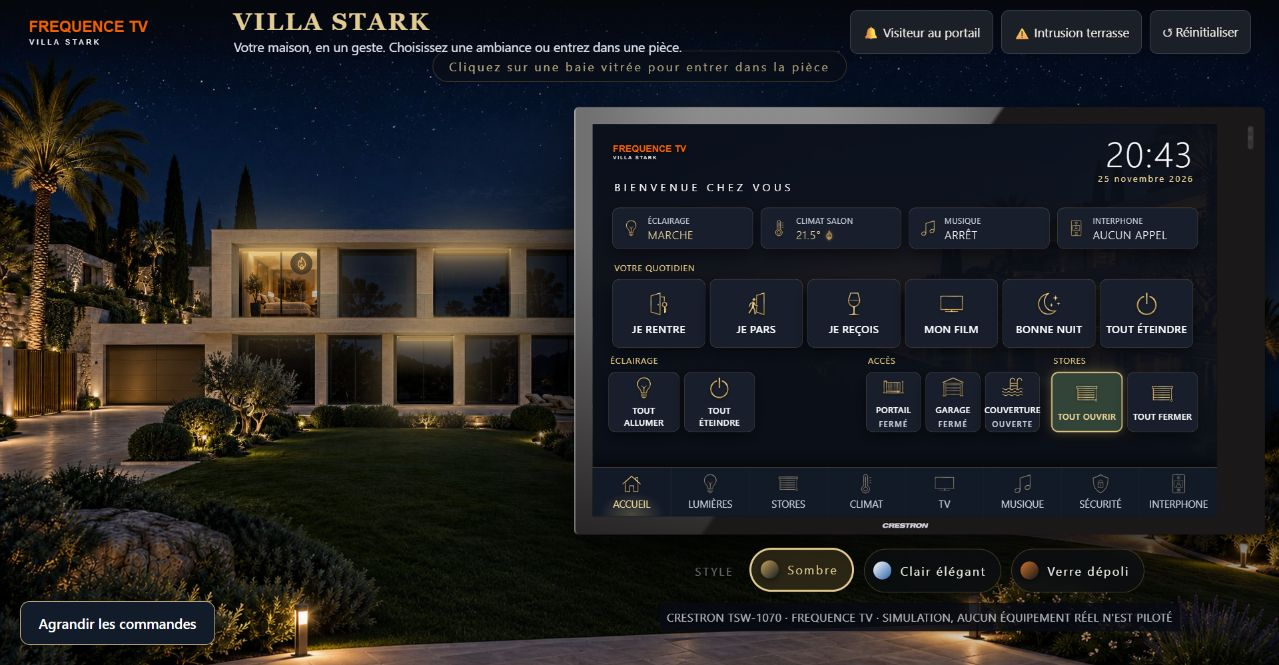
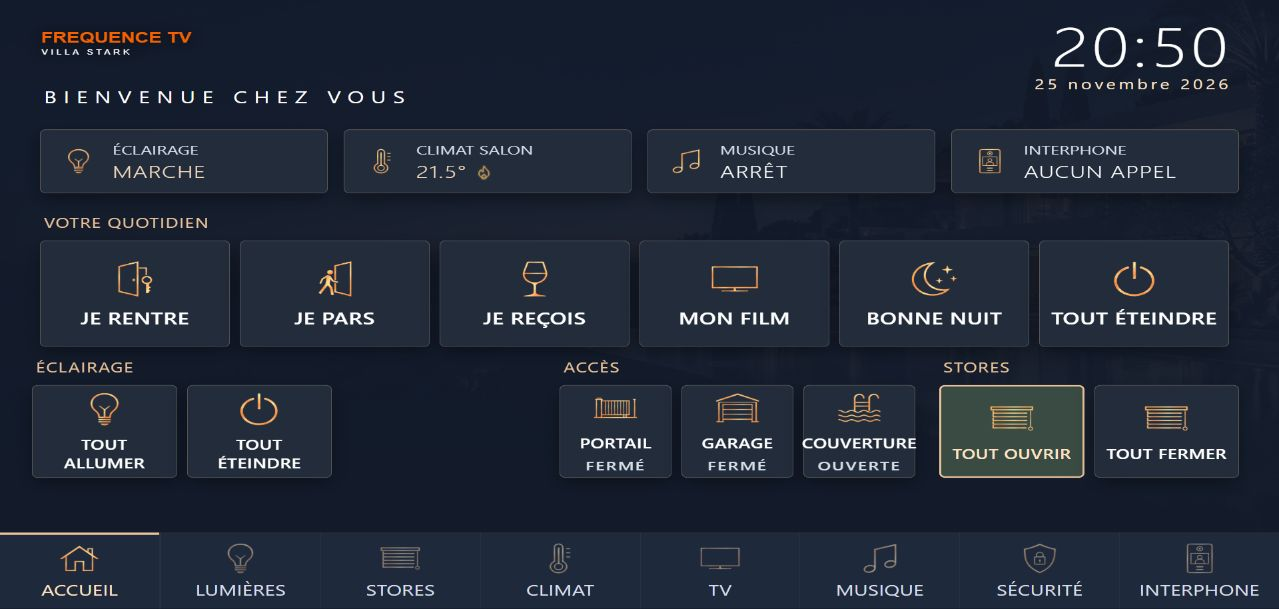
Separate Villa Stark animated backdrop from standard device GUI

diff --git a/apps/showcase/public/showcases/villa-stark/app.js b/apps/showcase/public/showcases/villa-stark/app.js
@@ -5,6 +5,18 @@
    ============================================================ */
 (() => {
 "use strict";
+const integrationMode = new URLSearchParams(location.search).get("mode") || "standalone";
+const backgroundOnly = integrationMode === "background";
+const syncId = new URLSearchParams(location.search).get("channel");
+const stateKey = syncId ? "villa-stark-state:" + syncId : null;
+const syncBus = syncId ? new BroadcastChannel("villa-stark:" + syncId) : null;
+function publishState() {
+  if (backgroundOnly || !syncBus) return;
+  const snapshot = { state: S, room: roomView };
+  try { sessionStorage.setItem(stateKey, JSON.stringify(snapshot)); } catch { /* Live sync remains available when storage is disabled. */ }
+  syncBus.postMessage({ type: "state", snapshot });
+}
+
 
 /* ---------------- définition de la villa ---------------- */
 const ROOMS = [
@@ -202,11 +214,13 @@ function renderHouse() {
   H.visitor.classList.toggle("ringing", ic.state === "ringing");
   ROOMS.forEach(r => { const t = H.thumbs[r.id]; t.classList.toggle("lit", anyLight(r.id)); t.classList.toggle("active", roomView === r.id); });
   renderRoomView();
+  publishState();
 }
 
 /* ---------------- vue intérieure d'une pièce ---------------- */
 let roomView = null;
 function enterRoom(id) {
+  if (backgroundOnly && !applyingSnapshot) { syncBus?.postMessage({ type: "command", action: "room", value: id }); return; }
   roomView = id;
   const r = roomById[id], v = $("#roomView");
   v.querySelector(".rv-photo").style.backgroundImage = `url(assets/photos/room_${id}.jpg)`;
@@ -221,7 +235,7 @@ function enterRoom(id) {
   $("#houseStage").classList.add("zoomed"); v.classList.add("open");
   go(id === "Pool" ? "light:Pool" : "light:" + id);
 }
-function leaveRoom() { roomView = null; $("#roomView").classList.remove("open"); $("#houseStage").classList.remove("zoomed"); go("lights"); }
+function leaveRoom() { if (backgroundOnly && !applyingSnapshot) { syncBus?.postMessage({ type: "command", action: "exterior" }); return; } roomView = null; $("#roomView").classList.remove("open"); $("#houseStage").classList.remove("zoomed"); go("lights"); }
 function renderRoomView() {
   if (!roomView) return;
   const id = roomView, r = roomById[id], v = $("#roomView"), l = S.lights[id], c3 = circuits(id), on = anyLight(id);
@@ -335,7 +349,7 @@ function renderHome(pg) {
   });
   const allUp = SHADE_ROOMS.every(id => !S.shades[id].pos), allDown = SHADE_ROOMS.every(id => S.shades[id].pos === 100);
   [["shades", "TOUT OUVRIR", 0, allUp], ["shades", "TOUT FERMER", 100, allDown]].forEach(([ico, l, pos, sel]) => {
-    const b = document.createElement("button"); b.className = "scene-btn" + (sel ? " sel" : ""); b.innerHTML = `<img src="assets/Icon_${ico}.png" alt="">${l}`; b.onclick = () => { SHADE_ROOMS.forEach(id => (S.shades[id].pos = pos)); render(); }; $("#shadeRow").appendChild(b);
+    const b = document.createElement("button"); b.className = "scene-btn" + (sel ? " sel" : ""); b.innerHTML = `<img src="assets/Icon_${ico}.png" alt="">${l}`; b.onclick = () => { stopAllShadeMotion(); SHADE_ROOMS.forEach(id => (S.shades[id].pos = pos)); render(); }; $("#shadeRow").appendChild(b);
   });
   tickClock();
 }
@@ -387,16 +401,21 @@ function renderRoomLights(pg, id) {
 
 /* ---------------- stores ---------------- */
 let shadeTimers = {};
+function stopAllShadeMotion() {
+  Object.values(shadeTimers).forEach(clearInterval);
+  SHADE_ROOMS.forEach(id => delete S.shades[id].target);
+}
 function moveShade(id, dir) {
   clearInterval(shadeTimers[id]);
   document.querySelectorAll('.win-shade,.rv-shade,.shade-vis .blind').forEach(el => el.style.transition = 'none');
-  if (dir === "stop") { refreshShadeVis(); return; }
+  if (dir === "stop") { delete S.shades[id].target; renderHouse(); refreshShadeVis(); return; }
   const target = dir === "down" ? 100 : 0, from = S.shades[id].pos, started = performance.now();
+  S.shades[id].target = target;
   shadeTimers[id] = setInterval(() => {
     const progress = Math.min(1, (performance.now() - started) / 2400);
     S.shades[id].pos = Math.round(from + (target - from) * progress);
     renderHouse(); refreshShadeVis();
-    if (progress === 1) clearInterval(shadeTimers[id]);
+    if (progress === 1) { clearInterval(shadeTimers[id]); delete S.shades[id].target; }
   }, 40);
 }
 function refreshShadeVis() { document.querySelectorAll(".shade-card").forEach(c => { const id = c.dataset.id, pos = S.shades[id].pos; c.querySelector(".blind").style.transform = `scaleY(${pos / 100})`; c.querySelector(".pos").textContent = pos === 0 ? "OUVERT" : pos === 100 ? "FERMÉ" : pos + " %"; }); }
@@ -544,7 +563,7 @@ const sceneHelp = {
 };
 function announce(text) { const el = $("#feedback"); el.textContent = text; clearTimeout(announce.timer); el.classList.add("visible"); announce.timer = setTimeout(() => el.classList.remove("visible"), 5500); }
 function runScene(k) {
-  Object.values(shadeTimers).forEach(clearInterval);
+  stopAllShadeMotion();
   document.querySelectorAll(".win-shade,.rv-shade,.shade-vis .blind").forEach(el => el.style.transition = "");
   announce(sceneHelp[k] || "Ambiance appliquée");
   if (k === "cinema") { allOff(); setLight("Cinema", "3000", "off", 12); SHADE_ROOMS.forEach(id => (S.shades[id].pos = 100)); S.tv.apple.power = true; S.tv.apple.app = "Apple TV"; ROOMS.forEach(r => (S.music[r.id].src = null)); }
@@ -574,8 +593,8 @@ function tickClock() {
   $("#hdrClock").textContent = hm;
   const t = $("#homeTime"); if (t) { t.textContent = hm; $("#homeDate").textContent = d.toLocaleDateString("fr-CH", { day: "numeric", month: "long", year: "numeric" }); }
 }
-setInterval(tickClock, 1000);
-setInterval(() => {
+if (!backgroundOnly) setInterval(tickClock, 1000);
+if (!backgroundOnly) setInterval(() => {
   let changed = false;
   ROOMS.forEach(r => { const c = S.climate[r.id]; const target = c.heat ? c.heatSP : c.ac ? c.acSP : 20; const step = c.ac ? 0.1 * c.acSpeed : 0.1;
     if (Math.abs(c.temp - target) > 0.05) { c.temp = Math.round((c.temp + Math.sign(target - c.temp) * Math.min(step, Math.abs(target - c.temp))) * 10) / 10; changed = true; } });
@@ -586,6 +605,36 @@ setInterval(() => {
 function scale() { const sc = $(".tsw-screen"); $("#tsw").style.transform = `scale(${sc.clientWidth / 1280}, ${sc.clientHeight / 800})`; }
 window.addEventListener("resize", scale);
 
+/* ---------------- shared state between GUI and animated backdrop ---------------- */
+let applyingSnapshot = false;
+function applySnapshot(snapshot) {
+  if (!snapshot?.state?.lights?.Living || !snapshot.state.shades?.Living) return;
+  applyingSnapshot = true;
+  Object.assign(S, snapshot.state);
+  if (snapshot.room && roomById[snapshot.room] && snapshot.room !== roomView) enterRoom(snapshot.room);
+  else if (!snapshot.room && roomView) leaveRoom();
+  if (backgroundOnly) {
+    document.querySelectorAll(".win").forEach(win => { win.querySelector(".win-shade").style.transition = S.shades[win.dataset.room]?.target != null ? "none" : ""; });
+    renderHouse();
+  } else render();
+  applyingSnapshot = false;
+}
+if (syncBus) {
+  syncBus.onmessage = ({ data }) => {
+    if (backgroundOnly) { if (data?.type === "state") applySnapshot(data.snapshot); return; }
+    if (data?.type === "request-state") { publishState(); return; }
+    if (data?.type !== "command") return;
+    if (data.action === "visitor") visitorRings();
+    else if (data.action === "intrusion") intrusion();
+    else if (data.action === "reset") { if (roomView) leaveRoom(); resetAll(); }
+    else if (data.action === "exterior") leaveRoom();
+    else if (data.action === "room" && roomById[data.value]) enterRoom(data.value);
+    else if (data.action === "shade" && roomView && S.shades[roomView]) { S.shades[roomView].pos = S.shades[roomView].pos ? 0 : 100; render(); }
+    else if (data.action === "theme" && THEMES.some(([key]) => key === data.value)) { S.theme = data.value; try { localStorage.setItem("villa-stark-theme", data.value); } catch {} render(); }
+  };
+}
+window.addEventListener("pagehide", () => { syncBus?.close(); Object.values(shadeTimers).forEach(clearInterval); });
+
 /* ---------------- démarrage ---------------- */
 buildHouse();
 $("#zoomControls").onclick = () => { const on = document.body.classList.toggle("panel-focus"); $("#zoomControls").textContent = on ? "Voir la villa et les commandes" : "Agrandir les commandes"; $("#zoomControls").setAttribute("aria-pressed", String(on)); requestAnimationFrame(scale); };
@@ -595,8 +644,11 @@ $("#evVisitor").onclick = visitorRings;
 $("#evIntrusion").onclick = intrusion;
 $("#evReset").onclick = () => { if (roomView) leaveRoom(); resetAll(); };
 $("#rvBack").onclick = leaveRoom;
-$("#roomView").addEventListener("click", e => { if (e.target.closest(".rv-shade") && roomById[roomView].shade) { S.shades[roomView].pos = S.shades[roomView].pos ? 0 : 100; render(); } });
+$("#roomView").addEventListener("click", e => { if (backgroundOnly && e.target.closest(".rv-shade")) { syncBus?.postMessage({ type: "command", action: "shade" }); return; } if (e.target.closest(".rv-shade") && roomById[roomView].shade) { S.shades[roomView].pos = S.shades[roomView].pos ? 0 : 100; render(); } });
 // état de départ : une ambiance de soirée pour que la villa ne soit pas éteinte
 setLight("Living", "3000", "3000", 70); setLight("Kitchen", "3000", "off", 60); setLight("Entry", "3000", "off", 50); S.climate.Living.heat = true; S.climate.Living.temp = 21.5;
+if (stateKey) { try { const saved = JSON.parse(sessionStorage.getItem(stateKey)); if (saved) applySnapshot(saved); } catch {} }
+if (!backgroundOnly) SHADE_ROOMS.forEach(id => { const shade = S.shades[id]; if (shade.target != null && shade.target !== shade.pos) moveShade(id, shade.target > shade.pos ? "down" : "up"); });
 render(); scale();
+if (backgroundOnly) syncBus?.postMessage({ type: "request-state" });
 })();

diff --git a/apps/showcase/src/components/Showcase.jsx b/apps/showcase/src/components/Showcase.jsx
@@ -1,3 +1,4 @@
+import { VillaStarkBackground, VillaStarkTools } from "./VillaStarkBackground";
 import { HotelBrassusTools } from "./HotelBrassusTools";
 import { VillaFtvTools } from "./VillaFtvTools";
 import React, { Suspense, useCallback, useEffect, useMemo, useRef, useState } from "react";
@@ -142,6 +143,7 @@ const ShowcaseInner = ({ sectorId, projectId, device }) => {
   const [capturing, setCapturing] = useState(false);
   const [captureNotice, setCaptureNotice] = useState("");
   const stageRef = useRef(null);
+  const starkSession = useRef(crypto.randomUUID());
   const guiFrameRef = useRef(null);   // iframe du GUI embarqué : le fond 3D y lit les feedbacks
   const { windowW } = useViewportMetrics();
   const { guiFullscreen, setGuiFullscreen } = useGuiFullscreen();
@@ -326,6 +328,7 @@ const ShowcaseInner = ({ sectorId, projectId, device }) => {
       ? activeProject.embedByViewport?.[viewportDevice] ||
         (viewportDevice === "phone" && activeProject.embedPhoneUrl ? activeProject.embedPhoneUrl : activeProject.embedUrl)
       : null;
+  const starkPanelSrc = activeProject.id === "villa-stark" ? `${embedSrc}&channel=${starkSession.current}` : embedSrc;
   const displayTitle = clientName || getProjectName(activeProject, lang);
   const Simulator = getSimulator(activeProject);
   const simulatorType = viewportDevice === "wallpanel_hd" ? "wallpanel" : viewportDevice;
@@ -340,7 +343,7 @@ const ShowcaseInner = ({ sectorId, projectId, device }) => {
   ) : embedSrc ? (
     <iframe
       ref={guiFrameRef}
-      src={embedSrc}
+      src={starkPanelSrc}
       title={displayTitle}
       style={{ width: "100%", height: "100%", border: "none", backgroundColor: "#080b11" }}
       sandbox="allow-scripts allow-same-origin"
@@ -356,11 +359,11 @@ const ShowcaseInner = ({ sectorId, projectId, device }) => {
   // Le châssis est alors poussé à gauche pour laisser la pièce 3D visible entre lui et la colonne des boutons.
   return (
     <div
-      className={`showcase-container fade-in sector-${sectorId || "all"} ${isFullscreen ? "fullscreen-mode" : ""} ${plan3dOn ? "plan3d-on" : ""} ${activeProject.immersiveDemo ? "immersive-project" : ""}`}
+      className={`showcase-container fade-in sector-${sectorId || "all"} ${isFullscreen ? "fullscreen-mode" : ""} ${plan3dOn ? "plan3d-on" : ""} ${activeProject.id === "villa-stark" ? "stark-project" : ""}`}
       ref={stageRef}
     >
-      {activeProject.immersiveDemo ? (
-        <div className="villa-stark-backdrop" aria-hidden="true" />
+      {activeProject.id === "villa-stark" ? (
+        <VillaStarkBackground channel={starkSession.current} />
       ) : plan3dOn ? (
         <Plan3DBackground projectId={activeProject.id} stageRef={stageRef} guiFrameRef={guiFrameRef} tourSessionRef={villaSessionRef} />
       ) : (
@@ -451,7 +454,7 @@ const ShowcaseInner = ({ sectorId, projectId, device }) => {
         <div className="workspace-main-content-row">
           <main className="project-workspace">
             <div className={`device-display-workspace ${isFullscreen ? "fullscreen-mode" : ""}`}>
-              {activeProject.immersiveDemo ? guiContent : <DeviceFrame
+              <DeviceFrame
                 deviceType={viewportDevice}
                 title={displayTitle}
                 browserAddress={activeProject.id === "appartement-crans" ? window.location.origin + shareUrl.split("?")[0] : undefined}
@@ -460,7 +463,7 @@ const ShowcaseInner = ({ sectorId, projectId, device }) => {
                 onEnterFullscreen={() => setIsFullscreen(true)}
               >
                 {guiContent}
-              </DeviceFrame>}
+              </DeviceFrame>
             </div>
           </main>
 
@@ -497,6 +500,7 @@ const ShowcaseInner = ({ sectorId, projectId, device }) => {
                 )}
               </div>
             )}
+            {activeProject.id === "villa-stark" && <VillaStarkTools channel={starkSession.current} />}
             {activeProject.id === "hotel-brassus" && <HotelBrassusTools key={viewportDevice} guiFrameRef={guiFrameRef} main={["phone", "tablet", "desktop"].includes(viewportDevice)} />}
             {activeProject.id === "villa-gemini-frequencetv" && viewportDevice !== "phone" && <VillaFtvTools key={viewportDevice} guiFrameRef={guiFrameRef} />}
             <div className="device-buttons-column">

diff --git a/apps/showcase/public/showcases/villa-stark/integration.css b/apps/showcase/public/showcases/villa-stark/integration.css
@@ -1,0 +1,46 @@
+/* GUI-only view: the surrounding device belongs to the site's DeviceFrame. */
+html[data-mode="panel"] body { overflow:hidden; background:#0b111b; }
+html[data-mode="panel"] .site-header,html[data-mode="panel"] .house-wrap,html[data-mode="panel"] .panel-caption,html[data-mode="panel"] .theme-bar,html[data-mode="panel"] .zoom-controls { display:none!important; }
+html[data-mode="panel"] .stage { position:fixed; inset:0; display:block; padding:0; }
+html[data-mode="panel"] .panel-wrap { position:absolute; inset:0; width:100%; height:100%; transform:none; margin:0; }
+html[data-mode="panel"] .tsw-frame { width:100%; height:100%; background:none; aspect-ratio:auto; filter:none; }
+html[data-mode="panel"] .tsw-screen { position:absolute; inset:0; width:100%; height:100%; border:0; border-radius:0; }
+html[data-mode="panel"] #feedback { bottom:106px; font-size:16px; }
+/* The background retains all photo layers and animations, without a second panel. */
+html[data-mode="background"] body { overflow:hidden; }
+html[data-mode="background"] .site-header,html[data-mode="background"] .panel-wrap,html[data-mode="background"] .zoom-controls,html[data-mode="background"] #feedback { display:none!important; }
+html[data-mode="background"] .stage { position:fixed; inset:0; display:block; padding:0; }
+html[data-mode="background"] .house-wrap { position:absolute; left:50%; top:50%; transform:translate(-50%,-50%); width:max(100vw,calc(100vh * 2496 / 1404)); aspect-ratio:2496/1404; overflow:visible; }
+html[data-mode="background"] .house-box { position:absolute; inset:0; width:100%; transform:none; aspect-ratio:auto; }
+html[data-mode="background"] .house-hint { display:none; }
+html[data-mode="background"] .room-view { position:absolute; }
+@media(max-width:600px) {
+ html[data-mode="panel"] body { overflow:auto; }
+ html[data-mode="panel"] .stage { position:static; }
+ html[data-mode="panel"] .panel-wrap { position:relative; }
+ html[data-mode="panel"] .tsw-frame { height:auto; }
+ html[data-mode="panel"] .tsw-screen { position:relative; height:auto; overflow:visible; }
+ html[data-mode="panel"] #tsw { border-radius:0; }
+ html[data-mode="panel"] #feedback { bottom:10px; }
+}
+
+@media(max-width:600px) {
+ html[data-mode="panel"] body { overflow:hidden; }
+ html[data-mode="panel"] .stage,html[data-mode="panel"] .panel-wrap,html[data-mode="panel"] .tsw-frame,html[data-mode="panel"] .tsw-screen,html[data-mode="panel"] #tsw { height:100%; }
+ html[data-mode="panel"] #tsw { overflow:hidden; }
+ html[data-mode="panel"] .page { height:calc(100% - 168px); min-height:0; overflow-y:auto; padding:10px; gap:8px; }
+ html[data-mode="panel"] .tsw.home .page { height:calc(100% - 108px); }
+ html[data-mode="panel"] .navbar { position:absolute; bottom:0; height:108px; }
+ html[data-mode="panel"] .nav-btn { min-height:54px; }
+ html[data-mode="panel"] .home-logo { width:130px; margin:0 0 10px; }
+ html[data-mode="panel"] .home-welcome { font-size:16px; padding:0; }
+ html[data-mode="panel"] .status-tile { min-height:54px; }
+ html[data-mode="panel"] #sceneRow { grid-template-columns:repeat(3,minmax(0,1fr)); }
+ html[data-mode="panel"] #sceneRow .scene-btn { min-height:58px; padding:6px; font-size:12px; }
+ html[data-mode="panel"] #sceneRow .scene-btn img { width:20px; height:20px; }
+ html[data-mode="panel"] #accessRow { grid-template-columns:repeat(3,minmax(0,1fr)); }
+ html[data-mode="panel"] #accessRow .scene-btn { min-height:68px; font-size:12px; padding:6px; }
+ html[data-mode="panel"] #lightRow .scene-btn,html[data-mode="panel"] #shadeRow .scene-btn { min-height:50px; font-size:12px; padding:4px; }
+ html[data-mode="panel"] #lightRow .scene-btn img,html[data-mode="panel"] #shadeRow .scene-btn img { width:18px; height:18px; }
+ html[data-mode="panel"] .home-section .label { margin-bottom:6px; font-size:12px; }
+}

diff --git a/apps/showcase/src/data/projects.js b/apps/showcase/src/data/projects.js
@@ -69,15 +69,15 @@ export const projects = [
     "residentiel"
   ],
   "devices": [
+    "crestron",
     "xpanel",
     "ios_tablet",
     "ios_phone"
   ],
   "isInteractive": false,
-  "immersiveDemo": true,
   "autoDemo": false,
-  "embedUrl": "/showcases/villa-stark/index.html",
-  "embedPhoneUrl": "/showcases/villa-stark/index.html",
+  "embedUrl": "/showcases/villa-stark/index.html?mode=panel",
+  "embedPhoneUrl": "/showcases/villa-stark/index.html?mode=panel",
   "thumbnailUrl": "/showcases/villa-stark/assets/photos/scene.jpg",
   "year": "2026",
   "text": {
@@ -88,7 +88,7 @@ export const projects = [
         "Scénarios Je rentre, Je pars, Je reçois, Mon film et Bonne nuit",
         "Villa et intérieurs interactifs",
         "Éclairages, stores, climat et médias",
-        "Trois thèmes et commandes en français",
+        "GUI dans le châssis choisi, fond animé synchronisé",
         "Simulation sans équipement réel"
       ]
     },
@@ -99,7 +99,7 @@ export const projects = [
         "Arrival, departure, hosting, movie and night scenes",
         "Interactive villa and interiors",
         "Lighting, shades, climate and media",
-        "Three themes; controls in French",
+        "GUI in the selected device frame; synchronised animated background",
         "Simulation without connected equipment"
       ]
     },
@@ -110,7 +110,7 @@ export const projects = [
         "Ankunft, Abwesenheit, Empfang, Film und Nacht",
         "Interaktive Villa und Innenräume",
         "Licht, Beschattung, Klima und Medien",
-        "Drei Designs; Bedienung auf Französisch",
+        "GUI im ausgewählten Gerät; synchronisierter animierter Hintergrund",
         "Simulation ohne angeschlossene Geräte"
       ]
     }

diff --git a/apps/showcase/src/villa-stark.css b/apps/showcase/src/villa-stark.css
@@ -1,7 +1,9 @@
-.immersive-project .workspace-main-content-row { gap:12px; }
-.immersive-project .project-workspace { min-width:0; flex:1; }
-.immersive-project .device-display-workspace { display:block; width:100%; height:100%; min-height:530px; padding:0; }
-.immersive-project .device-display-workspace>iframe { border-radius:16px; min-height:530px; }
-.immersive-project .workspace-device-sidebar { flex-basis:170px; }
+.villa-stark-background { position:absolute; inset:0; width:100%; height:100%; border:0; z-index:0; background:#05070c; }
+.stark-project .main-workspace-container { position:relative; z-index:1; pointer-events:none; }
+.stark-project .projects-horizontal-list-bar,.stark-project .workspace-device-sidebar,.stark-project .device-frame-wrapper,.stark-project .device-screen,.stark-project .device-scene-toggle { pointer-events:auto; }
+.villa-stark-tools { display:flex; flex-direction:column; gap:6px; padding:10px; border:1px solid #ffffff40; border-radius:12px; background:#0b111bea; color:#fff; font-size:12px; }
+.villa-stark-tools button { min-height:36px; padding:6px 9px; color:#fff; background:#233044; border:1px solid #66768f; border-radius:7px; cursor:pointer; }
+.villa-stark-tools button:hover { background:#384a63; }
+.stark-themes { display:flex; gap:4px; }.stark-themes button { flex:1; padding:4px; }
 
-.villa-stark-backdrop { position:absolute; inset:0; background:linear-gradient(#080d1880,#080d18b0),url(/showcases/villa-stark/assets/photos/scene.jpg) center/cover; pointer-events:none; }
+.stark-project .btn-exit-fullscreen-device-corner { pointer-events:auto; }

diff --git a/apps/showcase/src/components/VillaStarkBackground.jsx b/apps/showcase/src/components/VillaStarkBackground.jsx
@@ -1,0 +1,20 @@
+import { useEffect, useRef } from "react";
+
+// Each Showcase owns a channel: two open projects cannot exchange commands.
+export function VillaStarkBackground({ channel }) {
+  return <iframe className="villa-stark-background" title="Villa Stark — fond animé" src={`/showcases/villa-stark/index.html?mode=background&channel=${channel}`} sandbox="allow-scripts allow-same-origin" />;
+}
+
+export function VillaStarkTools({ channel }) {
+  const bus = useRef(null);
+  useEffect(() => { const connection = new BroadcastChannel(`villa-stark:${channel}`); bus.current = connection; return () => { connection.close(); bus.current = null; }; }, [channel]);
+  const send = (action, value) => bus.current?.postMessage({ type: "command", action, value });
+  return <div className="villa-stark-tools">
+    <span>Villa Stark · simulation</span>
+    <div className="stark-themes">{[["aurum", "Sombre"], ["glacier", "Clair"], ["carbone", "Verre"]].map(([id, label]) => <button key={id} onClick={() => send("theme", id)}>{label}</button>)}</div>
+    <button onClick={() => send("visitor")}>Visiteur au portail</button>
+    <button onClick={() => send("intrusion")}>Intrusion terrasse</button>
+    <button onClick={() => send("exterior")}>Vue extérieure</button>
+    <button onClick={() => send("reset")}>Réinitialiser</button>
+  </div>;
+}

diff --git a/apps/showcase/public/showcases/villa-stark/index.html b/apps/showcase/public/showcases/villa-stark/index.html
@@ -7,8 +7,10 @@
 <meta name="description" content="Simulation d'une villa pilotée par une interface Crestron : éclairage, stores, climat, musique, TV, sécurité et interphone réagissent en direct.">
 
 
+<script>document.documentElement.dataset.mode = new URLSearchParams(location.search).get("mode") || "standalone";</script>
 <link rel="stylesheet" href="style.css">
 <link rel="stylesheet" href="enhancements.css">
+<link rel="stylesheet" href="integration.css">
 </head>
 <body>
 

diff --git a/apps/showcase/docs/verification/2026-11-25-villa-stark-chassis/README.md b/apps/showcase/docs/verification/2026-11-25-villa-stark-chassis/README.md
@@ -1,0 +1,18 @@
+# Villa Stark — châssis et fond synchronisés
+
+Correction du 25/11/2026. Le fond photographique animé est un iframe autonome à la taille du site ; le GUI seul est dans le DeviceFrame commun. Aucun panneau photographique supplémentaire dans les châssis.
+
+## Vérifications de cette session
+- TSW / XPanel / iPad / iPhone × Sombre / Clair / Verre : douze captures et lecture du thème effectivement appliqué au GUI.
+- Mode Scène iPad accessible ; état Mon film conservé du téléphone à l’iPad.
+- Éclairage BLEU Salon : calque du fond #3C7CFF, opacité 0,92.
+- Scénario Je reçois : store Suite parentale du fond scaleY(1).
+- Visiteur : élément du fond `visitor here ringing`.
+- Mon film : Apple TV présente dans la baie du cinéma du fond.
+- Accueil iPhone : contenu 755 px pour une zone de 755 px, sans débordement. Navigation inférieure toujours visible ; pages détaillées utilisent un défilement interne.
+- Aucune erreur console constatée pendant les essais. Build Vite et lint réussis ; avertissements préexistants uniquement.
+
+## Architecture et limites
+Un canal BroadcastChannel aléatoire par instance de Showcase assure les échanges sans mélange entre onglets. Le GUI publie l’état et le conserve en sessionStorage pour le remontage lors d’un changement de châssis. Le fond relaie les interactions pièce/store vers le GUI. Les courses de stores en cours reprennent depuis la position enregistrée après remontage ; la durée restante est recalculée sur le nouveau support. Les thèmes et événements de démonstration sont commandés depuis la colonne de droite. La route GUI seule et le lecteur mobile n’affichent volontairement pas de fond de site.
+
+Aucune interaction avec du matériel réel. La fiche FR/EN/DE conserve ses contenus et ses trois captures ont été actualisées. La matrice ne constitue pas un audit exhaustif de contraste de tous les états.

diff --git a/apps/showcase/CLAUDE.md b/apps/showcase/CLAUDE.md
@@ -193,3 +193,8 @@ Le fond 3D Hotel Brassus affiche l'enveloppe complète seulement en vue généra
 ## 25/11/2026 — Villa Stark
 
 Ajout du concept Villa Stark dans Résidentiel : villa photographique et dalle interactives, commandes françaises, scénarios de vie dont Mon film, trois thèmes lisibles, agrandissement des commandes, adaptation tactile et arrêt intermédiaire des stores. Présentation immersive isolée via `immersiveDemo`, démo automatique générique désactivée. Ressources locales sous `public/showcases/villa-stark/`, fiches FR/EN/DE et captures dédiées. Recette, comparaison et limites : `docs/verification/2026-11-25-villa-stark/README.md`. Aucun programme matériel modifié.
+
+
+## 25/11/2026 — Villa Stark : fond animé séparé du châssis
+
+Correction demandée : la villa animée est le fond du site ; le GUI seul utilise DeviceFrame pour TSW, XPanel, iPad et iPhone. `mode=panel` / `mode=background` réutilisent le même moteur, état diffusé par BroadcastChannel avec identifiant de session propre au Showcase. Le GUI reste l’autorité de simulation ; le fond ne simule pas de températures indépendantes. État conservé entre supports, commandes du fond relayées au GUI, outils de scène et thème dans la colonne standard. L’accueil iPhone tient sans défilement, navigation toujours disponible. Douze combinaisons châssis/thème vérifiées, Mode Scène, éclairage bleu, stores, cinéma et visiteur synchronisés ; build/lint réussis. Captures et limites : `docs/verification/2026-11-25-villa-stark-chassis/`. Remplace la présentation immersive sans châssis du lot précédent. Aucun matériel modifié.

diff --git a/apps/showcase/README.md b/apps/showcase/README.md
@@ -771,3 +771,8 @@ Bogue reproduit : les scènes Restaurant donnaient 43–77 % au lieu de 0–100 
 ## 25/11/2026 — Villa Stark
 
 Ajout du concept Villa Stark dans Résidentiel : villa photographique et dalle interactives, commandes françaises, scénarios de vie dont Mon film, trois thèmes lisibles, agrandissement des commandes, adaptation tactile et arrêt intermédiaire des stores. Présentation immersive isolée via `immersiveDemo`, démo automatique générique désactivée. Ressources locales sous `public/showcases/villa-stark/`, fiches FR/EN/DE et captures dédiées. Recette, comparaison et limites : `docs/verification/2026-11-25-villa-stark/README.md`. Aucun programme matériel modifié.
+
+
+## 25/11/2026 — Villa Stark : fond animé séparé du châssis
+
+Correction demandée : la villa animée est le fond du site ; le GUI seul utilise DeviceFrame pour TSW, XPanel, iPad et iPhone. `mode=panel` / `mode=background` réutilisent le même moteur, état diffusé par BroadcastChannel avec identifiant de session propre au Showcase. Le GUI reste l’autorité de simulation ; le fond ne simule pas de températures indépendantes. État conservé entre supports, commandes du fond relayées au GUI, outils de scène et thème dans la colonne standard. L’accueil iPhone tient sans défilement, navigation toujours disponible. Douze combinaisons châssis/thème vérifiées, Mode Scène, éclairage bleu, stores, cinéma et visiteur synchronisés ; build/lint réussis. Captures et limites : `docs/verification/2026-11-25-villa-stark-chassis/`. Remplace la présentation immersive sans châssis du lot précédent. Aucun matériel modifié.
